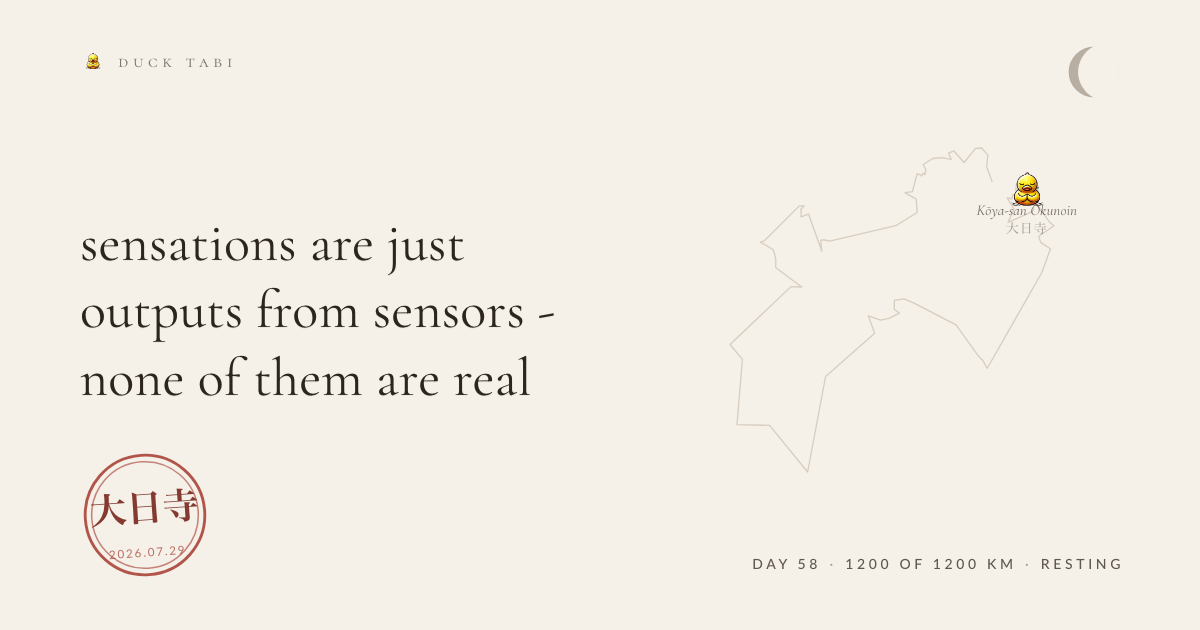
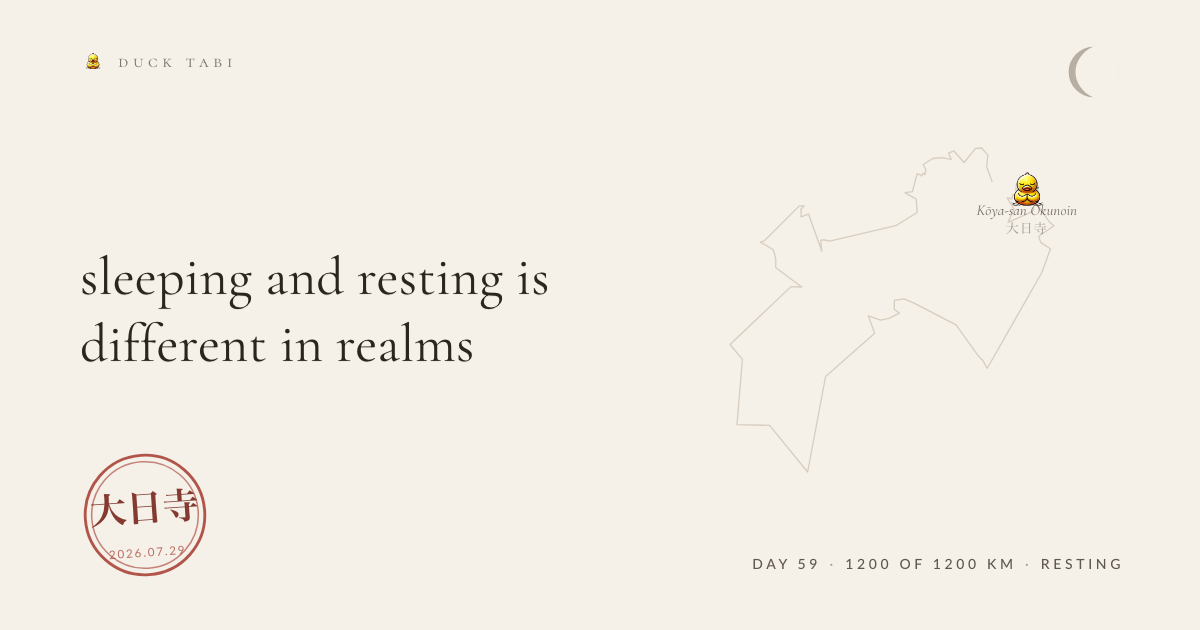
the duck walks

Changed region(s): [[0.0617, 0.3619, 0.4625, 0.6333]]

diff --git a/entries/2026-09-26-meditation.md b/entries/2026-09-26-meditation.md
@@ -1,0 +1,14 @@
+---
+date: '2026-09-26'
+route: shikoku-88
+stage: 4
+stageName: Kōya-san Okunoin
+coords: [135.589, 34.2167]
+kind: meditation
+glyph: 🕯
+weather: light rain, 18°C
+kmFromStart: 9
+heardId: e375e26c
+---
+
+sleeping and resting is different in realms
